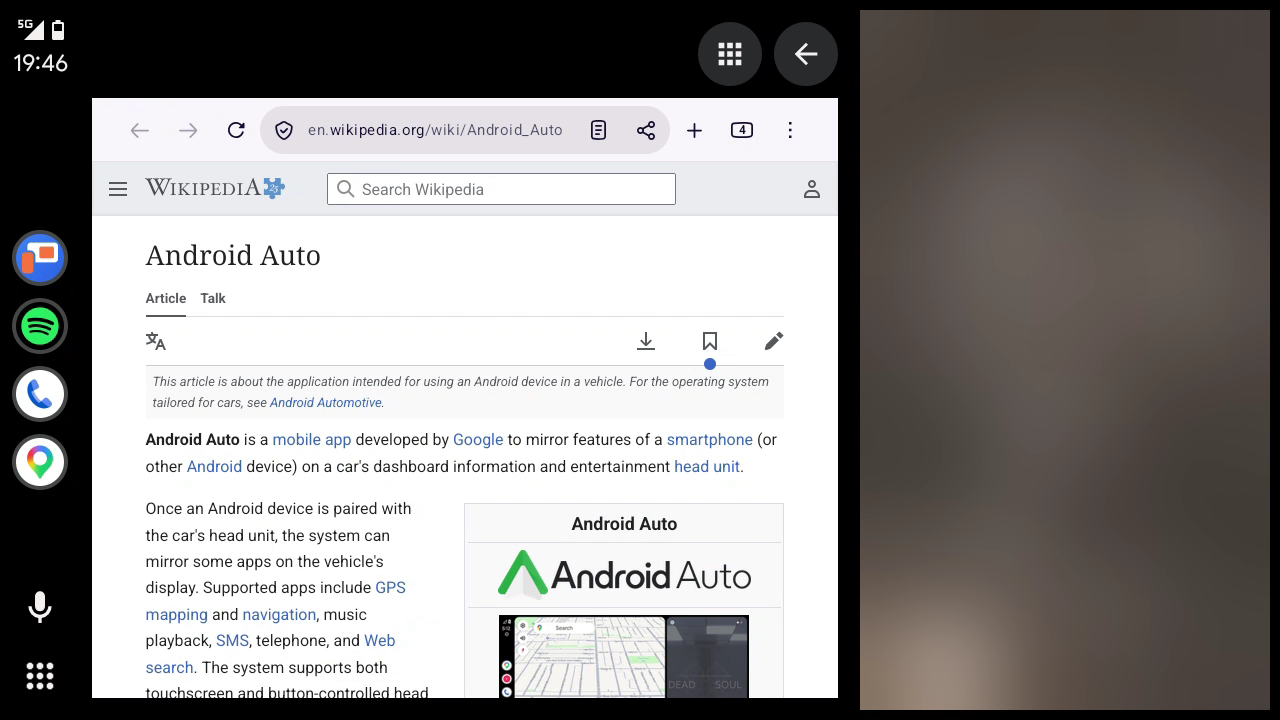
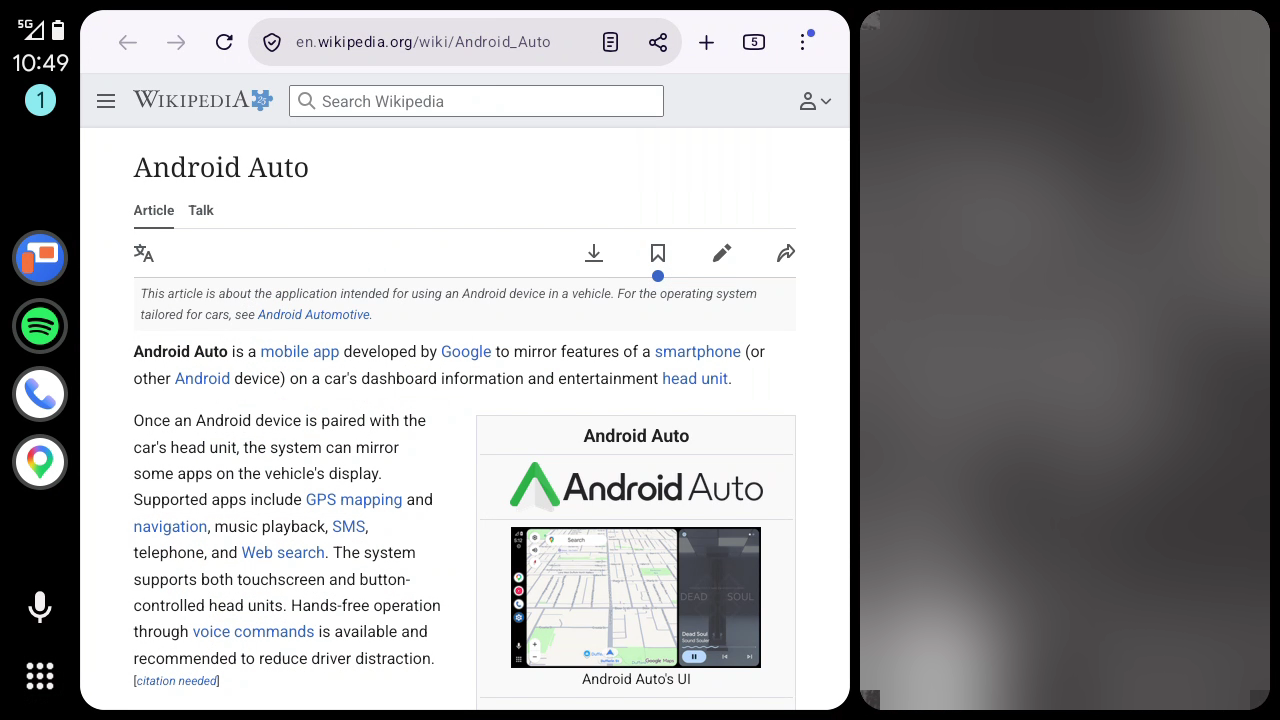
0.12: full screen in Android Auto's split screen (#13), bar clear of AA 18.1's button
- Full screen in the car now covers the cards too: beside the media card
  the app goes up through the band Android Auto keeps for its button and
  out to the screen's edges, and toward the other card as far as the card
  reaches past its stable area (the same area Google Maps' card uses).
  The preview's Card toggle lays out the same way.
- Android Auto 18.1 moved its button in the full-width view from the top
  right to the top left, over the left navigation bar's Back: a second
  quick Back hit Android Auto's button and hid the bar. The bar's buttons
  now start below the room the stable area leaves for the button on the
  bar's side (a column), or on the right below a top band (18.0).
- Headless car: --ez navright true|false sets the bar's side (tests).
- README and Help: the app fills the split screen too; Android Auto's
  button is "at the top", not the top right. New dashboard screenshot.

diff --git a/src/com/mag/anyauto/Mirror.java b/src/com/mag/anyauto/Mirror.java
@@ -29,8 +29,9 @@ import java.util.concurrent.TimeUnit;
  * <p>The display draws into a {@link Compositor}, which puts it into the <b>content rect</b>: the
  * part of the screen surface the user can see. That is the car's stable area (not covered by the
  * action strip, and the dashboard card's slice when AnyAuto is in the map card), else its visible
- * area, else the whole surface. The display is sized to the content rect, and car coordinates
- * are moved into it before they reach {@link Touch}.
+ * area, else the whole surface; with "Full screen in the car" the stable area grows out to the
+ * screen's edges and under the action strip ({@link #fullScreen(Rect)}). The display is sized to
+ * the content rect, and car coordinates are moved into it before they reach {@link Touch}.
  *
  * <p>On the car, AnyAuto's <b>navigation bar</b> (Back, Apps, Keyboard, Close, Hide) takes a band
  * at the left (or, by the setting, the right) of the full-width view, beside the app; taps in it
@@ -64,6 +65,10 @@ public final class Mirror implements Touch.Sink, Shell.Listener {
     private static final String TAG = "AnyAuto";
     // the car sends the visible and the stable area one after the other: resize once
     private static final long CONTENT_SETTLE_MS = 150;
+    // a gap between the stable area and the screen's edge this small is only the margin (12 px
+    // on the desktop head unit), not room for Android Auto's button (a column of 100 px, a band of
+    // 88 px) or the other card (far wider); in a card, a gap this small at the top is that band
+    private static final int MARGIN_DP = 32, CARD_BAND_DP = 128;
     // while the car shows AnyAuto: how often to ask whether the phone refused to stay dark
     private static final long FIGHT_CHECK_MS = 10_000;
 
@@ -824,7 +829,9 @@ public final class Mirror implements Touch.Sink, Shell.Listener {
     private void applyContent() {
         Rect full = new Rect(0, 0, screenW, screenH);
         Rect r;
-        if (forced != null && full.contains(forced) && !forced.isEmpty()) r = forced;
+        // the preview's simulated card, laid out the way the car's card would be
+        if (forced != null && full.contains(forced) && !forced.isEmpty())
+            r = Prefs.fullScreen(context) ? cardScreen(forced) : forced;
         else if (!stable.isEmpty() && full.contains(stable)) r = car && Prefs.fullScreen(context) ? fullScreen(stable) : stable;
         else if (!visible.isEmpty() && full.contains(visible)) r = visible;
         else r = full;
@@ -835,11 +842,9 @@ public final class Mirror implements Touch.Sink, Shell.Listener {
         // full-width view only; with no app open there is nothing to cover, so the bar stays
         if (car && (Prefs.navBar(context) || app == null) && r.width() >= screenW * 0.8f) {
             int bw = Compositor.navWidth(screenW, dpi);
+            // the bar itself goes to the top; its buttons start below Android Auto's button
+            skip = navSkip(r, right);
             if (right) {
-                // Android Auto's own button floats at the top right: the buttons start below it,
-                // where the stable area starts (in full screen the bar itself goes to the top)
-                if (stable.isEmpty()) skip = Math.round(80 * dpi / 160f);
-                else if (stable.top > r.top) skip = stable.top - r.top;
                 bar.set(r.right - bw, r.top, r.right, r.bottom);
                 r = new Rect(r.left, r.top, r.right - bw, r.bottom);
             } else {
@@ -852,7 +857,7 @@ public final class Mirror implements Touch.Sink, Shell.Listener {
             navSkip = skip;
             navRight = right;
             Log.i(TAG, "navigation bar " + (bar.isEmpty() ? "hidden" : bar.toShortString()
-                    + (right ? " (right, buttons from +" + skip + ")" : " (left)")));
+                    + (right ? " (right" : " (left") + ", buttons from +" + skip + ")"));
         }
         compositor.nav(navBar, navSkip, navRight, launched != null);
         if (!r.equals(content)) {
@@ -866,16 +871,59 @@ public final class Mirror implements Touch.Sink, Shell.Listener {
     }
 
     /**
+     * How far below the top of the view the navigation bar's buttons start, so that Android Auto's
+     * own button (it floats over the full-width view) doesn't cover one. The stable area leaves room
+     * for it: a column down one side with the button at its top (Android Auto 18.1: the left), or a
+     * band across the top with the button at the right (18.0). The buttons start below a column on
+     * the bar's side (the button is round: as tall as the column is wide), and on the right below
+     * the band. Without full screen the view is the stable area, which the button stays out of.
+     */
+    private int navSkip(Rect r, boolean right) {
+        if (stable.isEmpty()) return right ? Math.round(80 * dpi / 160f) : 0;
+        int margin = Math.round(MARGIN_DP * dpi / 160f);
+        int column = right ? r.right - stable.right : stable.left - r.left;
+        if (column > margin) return column;
+        int band = stable.top - r.top;
+        return right && band > margin ? band : 0;
+    }
+
+    /**
      * The setting "Full screen in the car": the app gets the whole surface, edge to edge, the way
      * Google Maps draws its map. The stable area leaves a margin all round (12 px on the desktop
      * head unit, plus the band Android Auto keeps for Apps and Back), which showed as a black frame.
      * The buttons float over the app while shown and hide by themselves, and Android Auto rounds the
-     * surface's corners. Fixed, so the app never jumps when the buttons show and hide. Only for
-     * the full-width view: the dashboard and launcher cards keep their card.
+     * surface's corners. Fixed, so the app never jumps when the buttons show and hide. In a
+     * dashboard or launcher card see {@link #cardScreen(Rect)}.
      */
     private Rect fullScreen(Rect s) {
-        if (s.width() < screenW * 0.8f) return s;
+        if (s.width() < screenW * 0.8f) return cardScreen(s);
         return new Rect(0, 0, screenW, screenH);
+    }
+
+    /**
+     * Full screen in a card (Android Auto's split screen, the app beside a media card): the card's
+     * stable area leaves out the band at the top where Android Auto's button floats, which showed
+     * as a black band above the app (issue #13). The app goes up through that band and out to the
+     * screen's edges, like the full-width view: a side goes out where the gap is just the margin,
+     * the top where it is just the button's band. Toward the other card the card reaches as far
+     * past its stable area as it does at the screen's edge (12 px on the desktop head unit, where
+     * Google Maps' card ends too).
+     */
+    private Rect cardScreen(Rect s) {
+        int margin = Math.round(MARGIN_DP * dpi / 160f);
+        int left = s.left, right = screenW - s.right;
+        Rect r = new Rect(s);
+        if (left <= margin) {
+            r.left = 0;
+            if (right > margin) r.right = s.right + left;
+        }
+        if (right <= margin) {
+            r.right = screenW;
+            if (left > margin) r.left = s.left - right;
+        }
+        if (screenH - s.bottom <= margin) r.bottom = screenH;
+        if (s.top <= Math.round(CARD_BAND_DP * dpi / 160f)) r.top = 0;
+        return r;
     }
 
     /**

diff --git a/src/com/mag/anyauto/HelpActivity.java b/src/com/mag/anyauto/HelpActivity.java
@@ -37,8 +37,8 @@ public final class HelpActivity extends Activity {
         para(col, "To use the phone at the same time, turn on ⋮ → Keep the phone's screen on.");
         para(col, "If your phone turns its screen straight back on, or goes to sleep, when AnyAuto turns it off, AnyAuto stops doing that so the screen doesn't flicker, and turns on Keep the phone's screen on for later drives.");
         para(col, "Tap a text field and the keyboard opens on the car screen. The Keyboard button opens it for the selected text field, or closes it. To type on the phone instead, choose ⋮ → Keyboard → On the phone; the phone's screen then stays on.");
-        para(col, "Back is the app's own Back. Apps goes to the apps grid. Close closes the app, like swiping it away in Recents. Hide gives the app the whole width; the bar button at the top right of the car screen brings the bar back.");
-        para(col, "That bar button is Android Auto's own: it floats over the app until it hides, and a tap on the screen shows it again. To keep it out of the app's way, turn off ⋮ → Full screen in the car.");
+        para(col, "Back is the app's own Back. Apps goes to the apps grid. Close closes the app, like swiping it away in Recents. Hide gives the app the whole width; Android Auto's round bar button at the top of the car screen brings the bar back.");
+        para(col, "That bar button is Android Auto's own: it floats over the app until it hides, and a tap on the screen shows it again. Beside a media card (Android Auto's split screen) the app also fills the band under that button. To keep it out of the app's way, turn off ⋮ → Full screen in the car.");
 
         heading(col, "Cars without a touch screen");
         para(col, "With a rotary knob or a touchpad, select Android Auto's pan button (✥) at the bottom right and press: a ring, AnyAuto's pointer, appears. Push the knob to move it; quick pushes go further. Press the knob to click where the ring is, and press the pan button again for the next click.");

diff --git a/src/com/mag/anyauto/Headless.java b/src/com/mag/anyauto/Headless.java
@@ -31,6 +31,13 @@ public final class Headless extends BroadcastReceiver {
             Log.i(TAG, "headless: pointer buttons " + Prefs.pointerButtons(c));
             return;
         }
+        // --ez navright true|false: the setting "Navigation bar side"
+        if (intent.hasExtra("navright")) {
+            Prefs.setNavRight(c, intent.getBooleanExtra("navright", false));
+            Mirror.settingsChanged();
+            Log.i(TAG, "headless: navigation bar on the " + (Prefs.navRight(c) ? "right" : "left"));
+            return;
+        }
         Shell.init(c);
         PendingResult result = goAsync();
         new Thread(() -> {

diff --git a/README.md b/README.md
@@ -78,7 +78,12 @@ car screen:
 - **Keyboard:** opens or closes the keyboard for the selected text field. Tapping a text field
   opens it too.
 - **Close:** closes the app, like swiping it away in Recents.
-- **Hide:** the app gets the whole width. The button at the top right brings the bar back.
+- **Hide:** the app gets the whole width. Android Auto's round button at the top brings the bar
+  back.
+
+The app fills the car screen edge to edge, also beside the media card in Android Auto's split
+screen. Android Auto's round button floats over it and hides by itself after a few seconds; to
+keep it out of the app's way, turn off ⋮ → **Full screen in the car**.
 
 Settings in ⋮: the bar on the left or right, full screen, the keyboard on the car screen or the
 phone, keeping the phone's screen on, and pointer buttons for a knob.
@@ -93,14 +98,14 @@ With a rotary knob (such as BMW's iDrive) or a touchpad, select Android Auto's p
 - **Scroll:** push past the top or bottom edge.
 - **AnyAuto's bar:** push the ring into the bar and it lands on a button; up and down go from
   button to button.
-- **Back:** the car's Back button. Android Auto's buttons at the top right also get **Apps**.
+- **Back:** the car's Back button. Android Auto's buttons at the top also get **Apps**.
 
 After 10 seconds without the knob, the ring goes away. Pressing the pan button then clicks
 nothing; press it again to get the ring back.
 
 **No pan button?** Some wireless adapters tell Android Auto that the car has a touch screen, so
 ✥ never shows. Turn on ⋮ → **Pointer buttons (knob)** in AnyAuto. Android Auto's buttons at
-the top right then get **Pointer** (✥); push the knob up to reach them. Press Pointer, and they
+the top then get **Pointer** (✥); push the knob up to reach them. Press Pointer, and they
 become **Tap**, **Done** and four arrows: turn the knob to an arrow and press to move the ring
 (quick presses go further), then press **Tap** to click there. An arrow at the edge scrolls, and
 the ring goes into AnyAuto's bar like above. **Done** brings the usual buttons back. After
